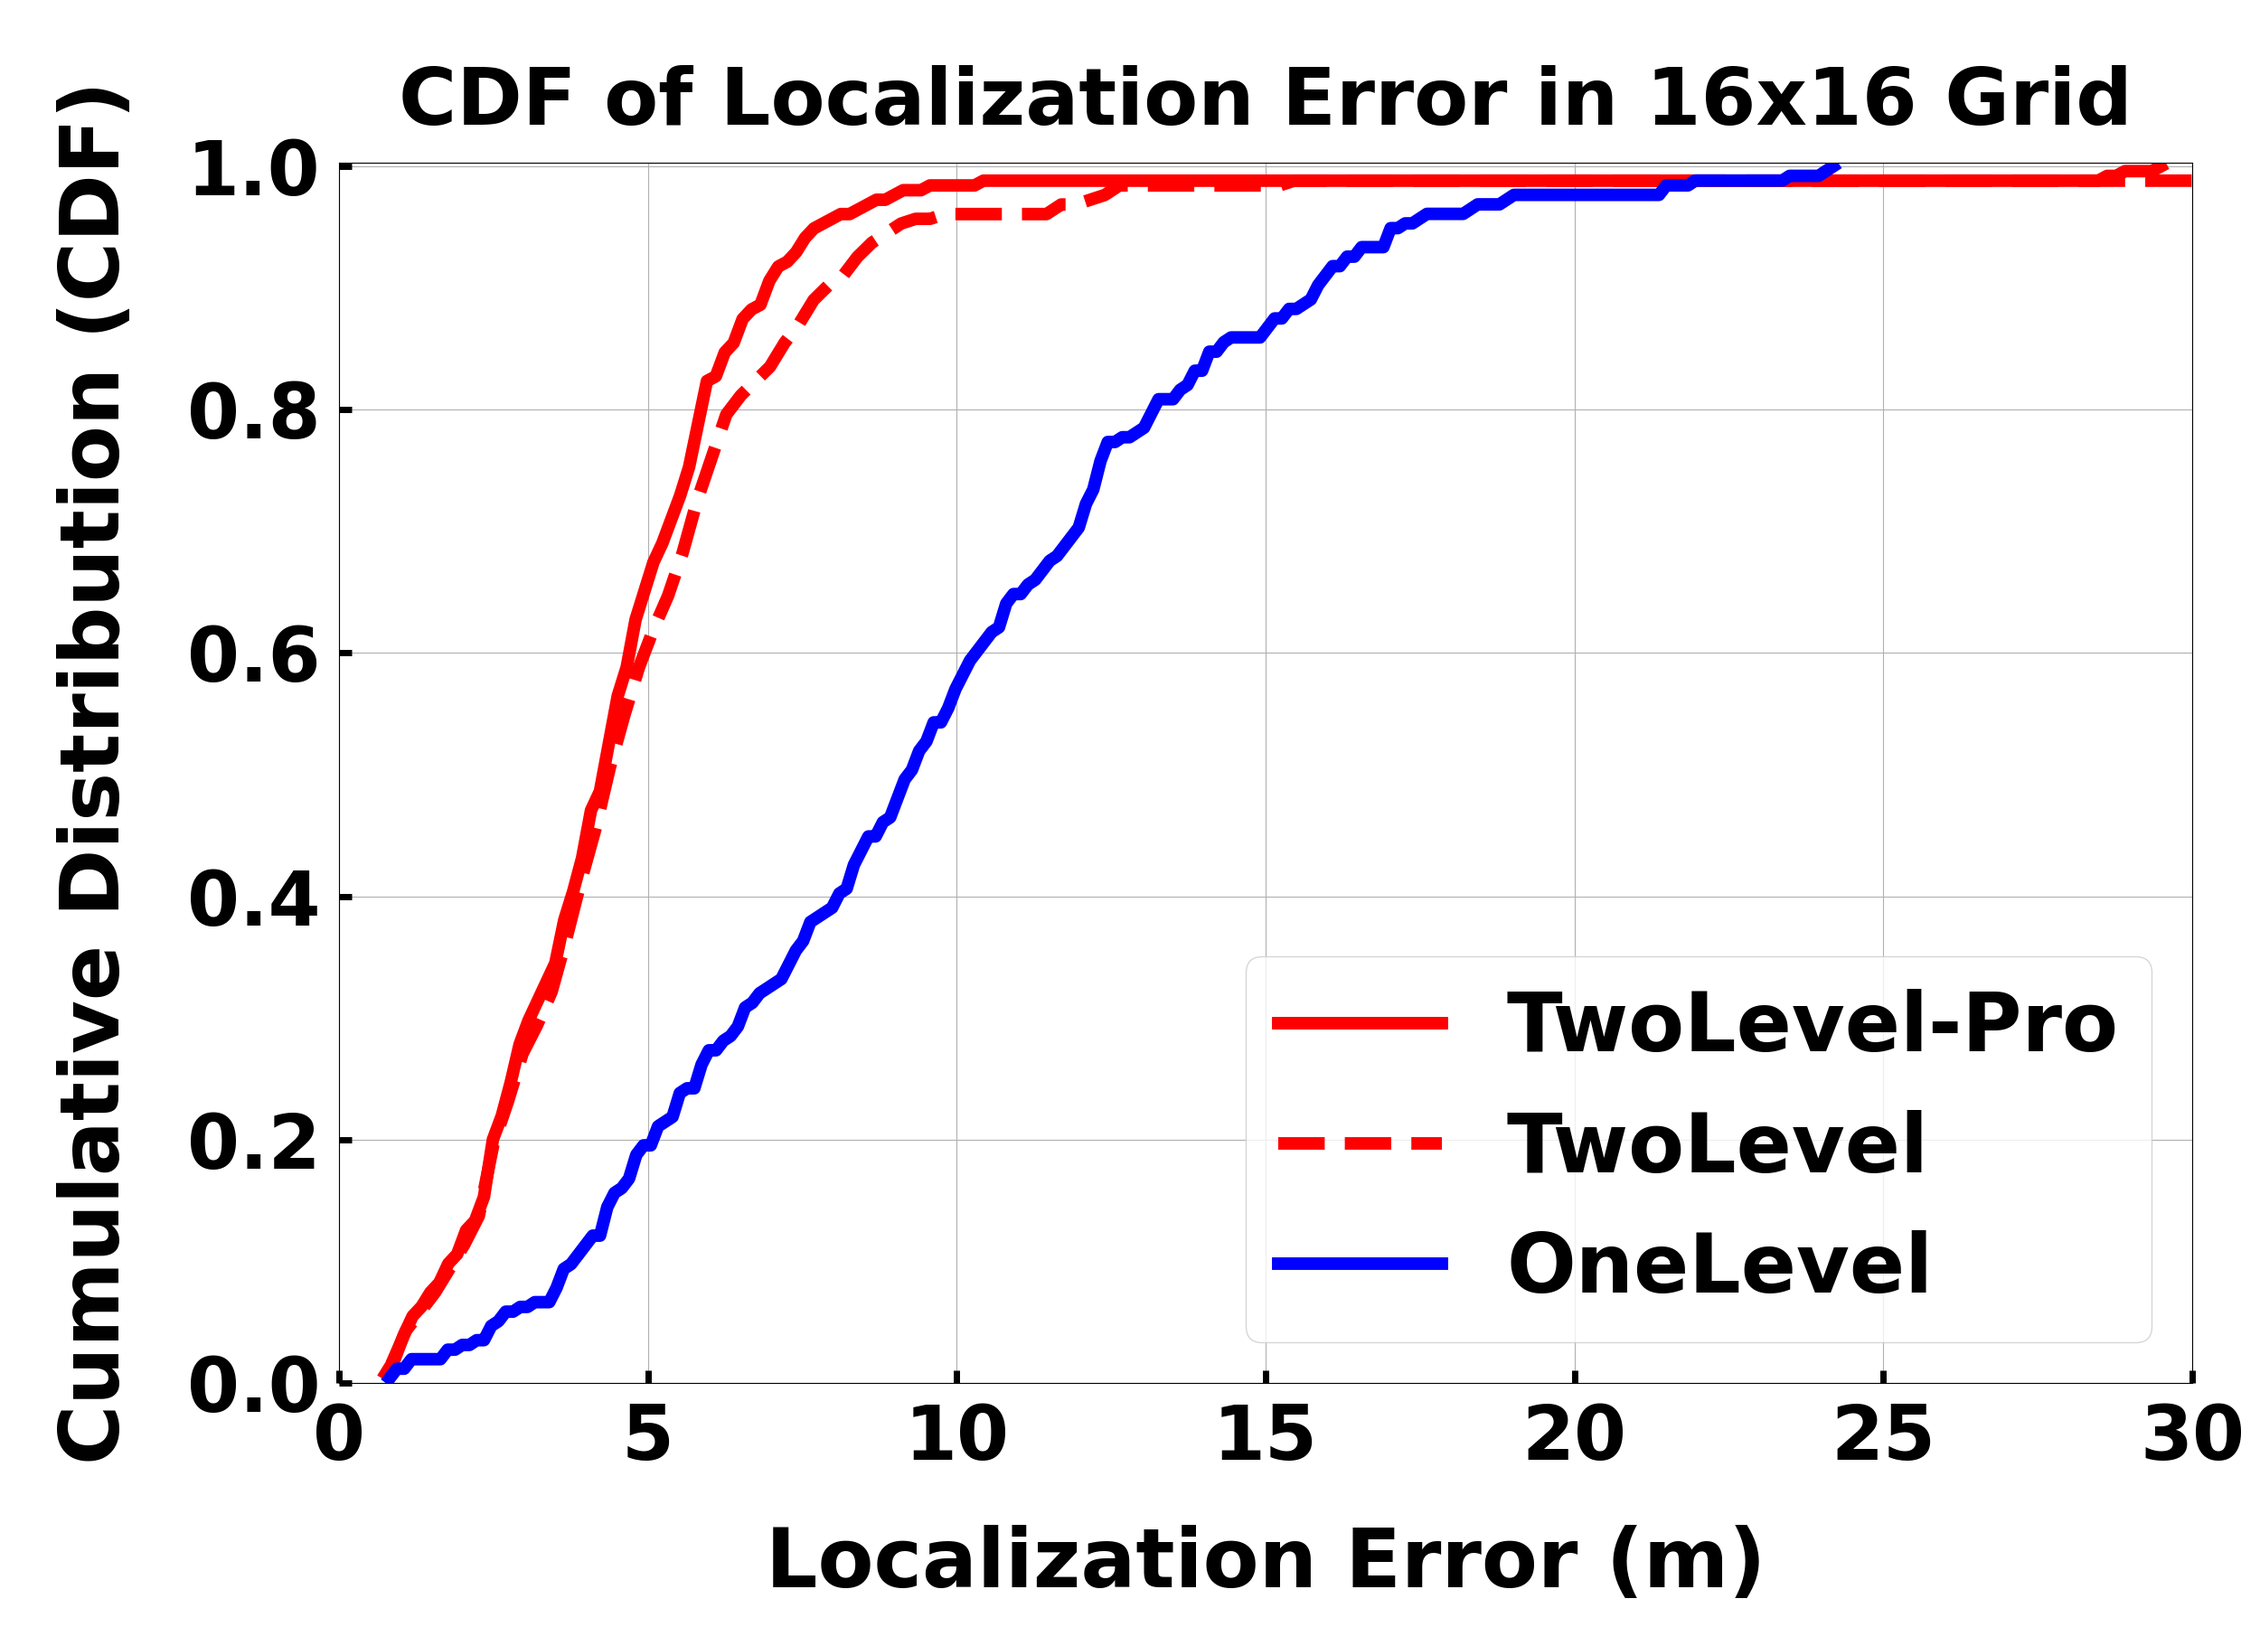
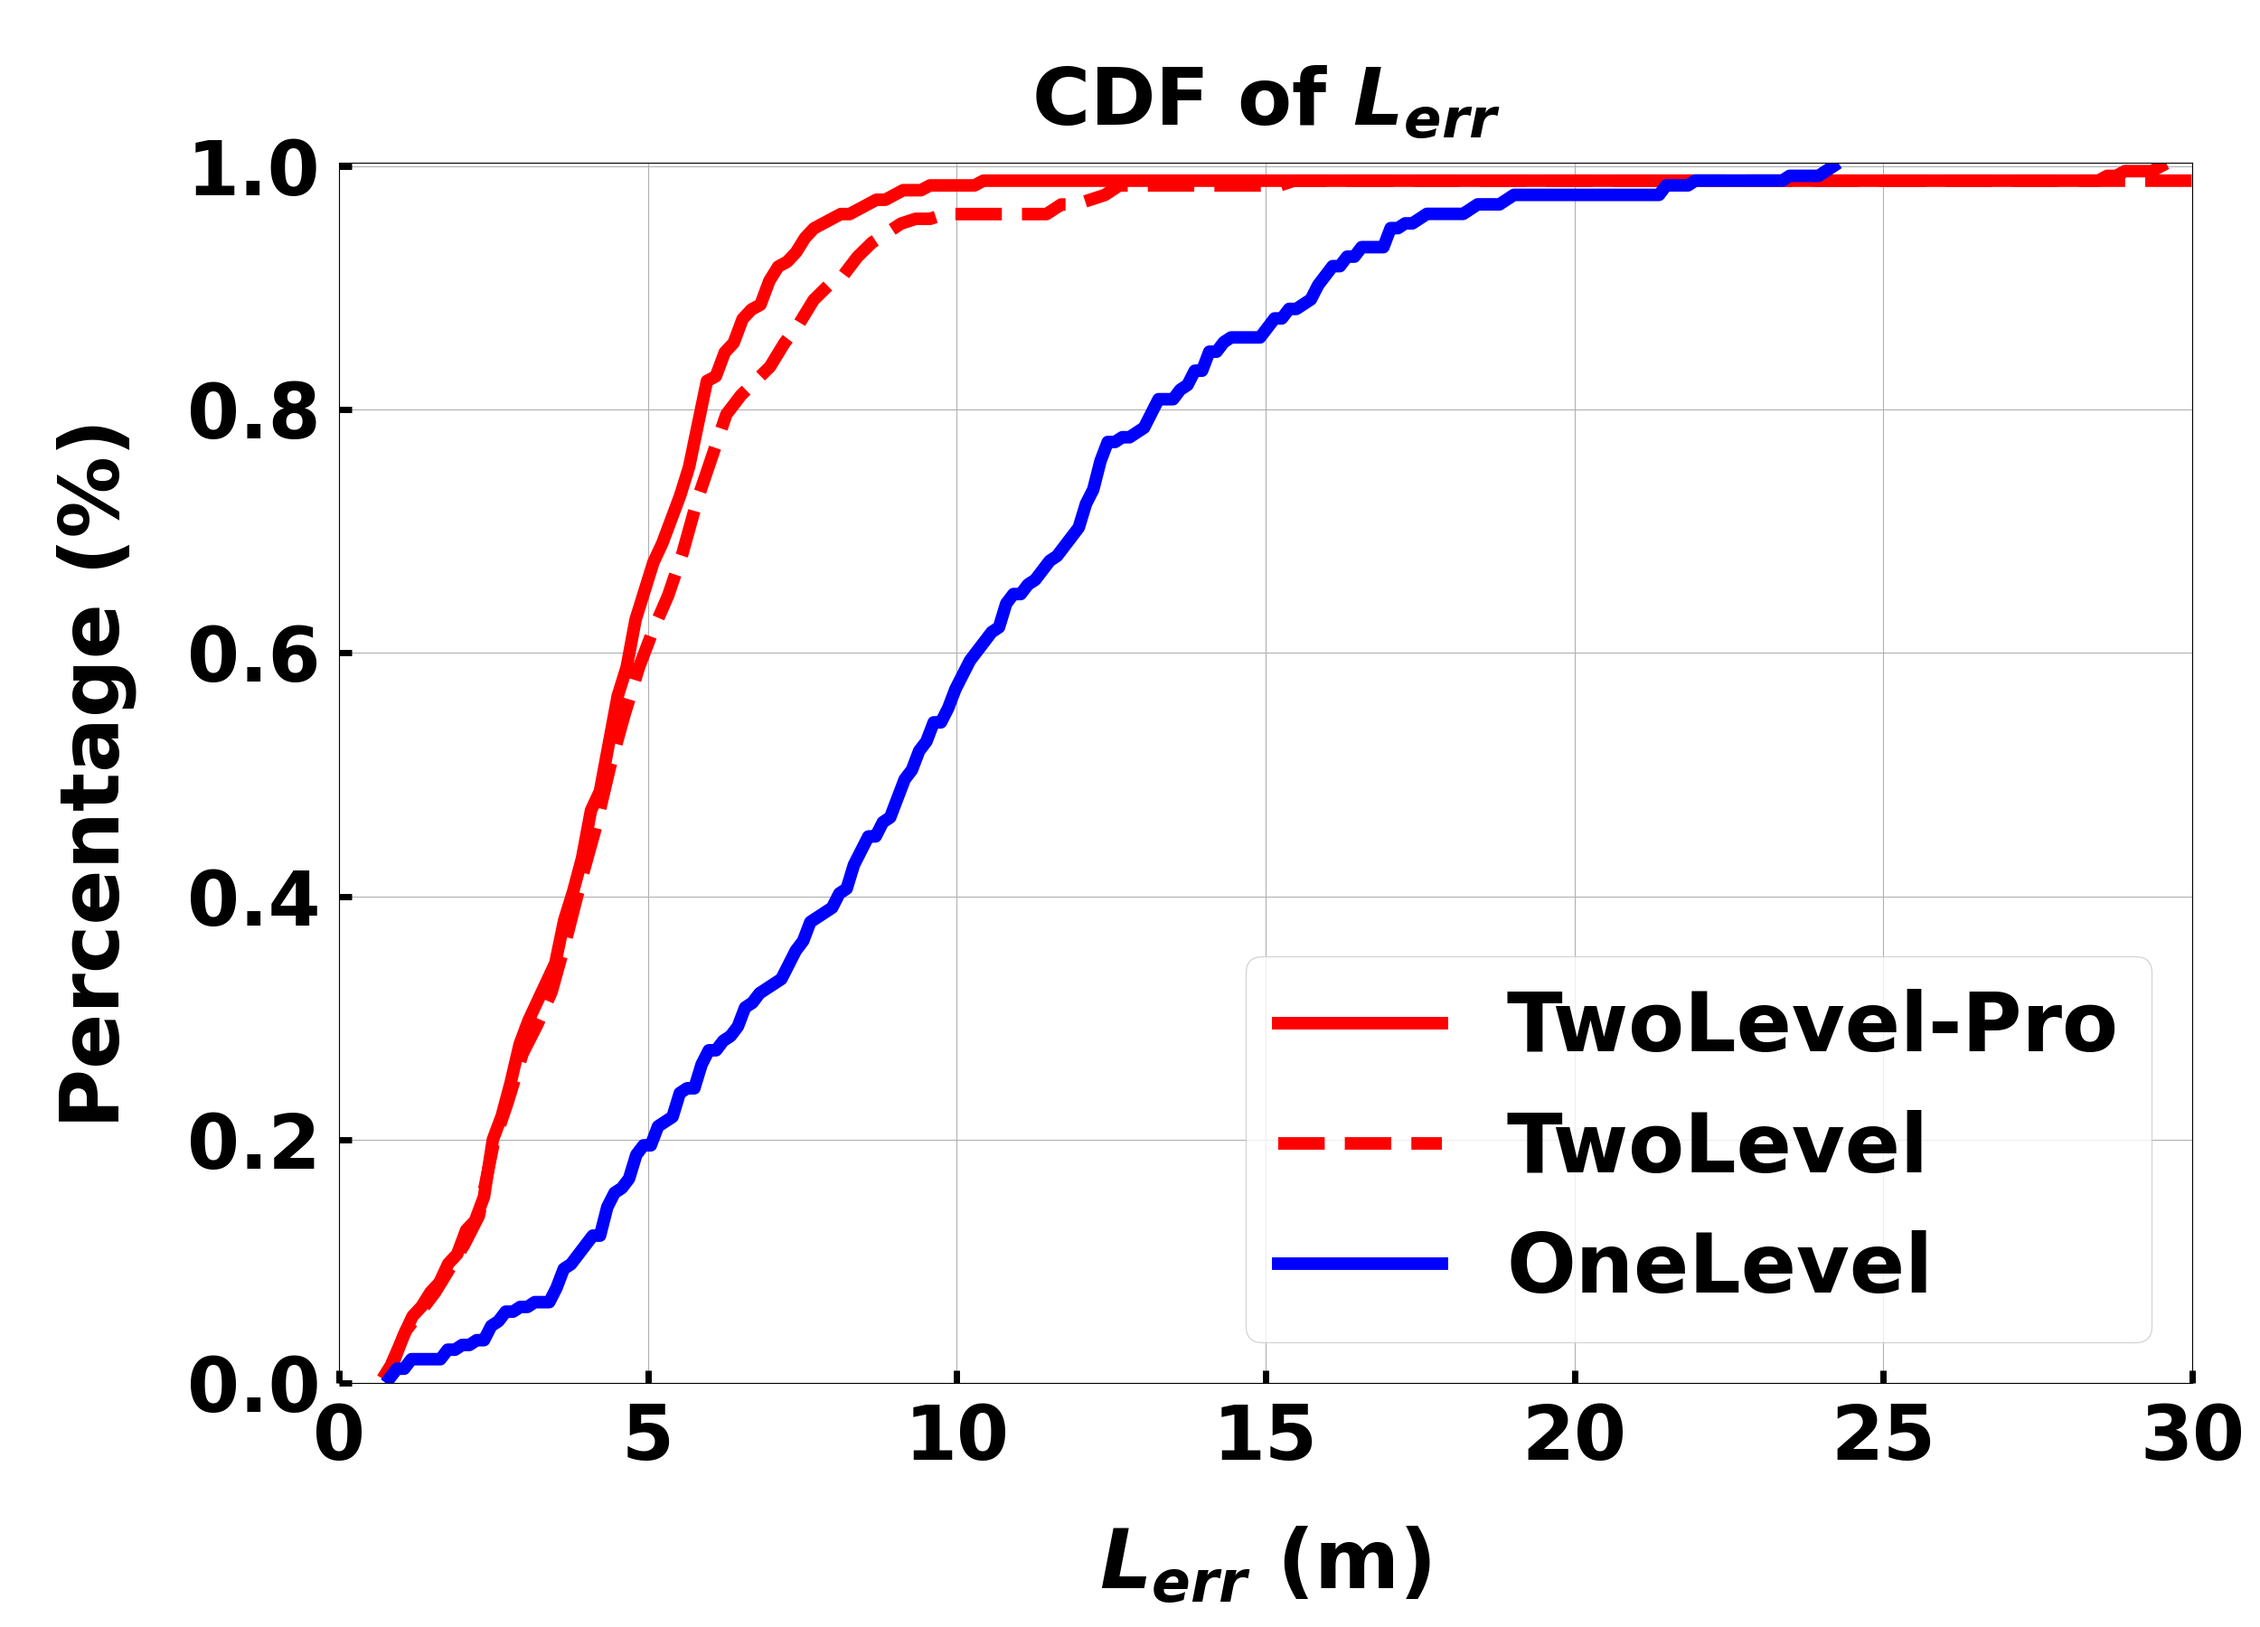
fix typo in plots

Changed region(s): [[0.156, 0.0311, 0.9672, 0.0933], [0.0, 0.0311, 0.0624, 0.9022], [0.3432, 0.9333, 0.78, 0.9956]]

diff --git a/plot.py b/plot.py
@@ -98,14 +98,16 @@ class Plot:
         y_8sen_error = arr[:, 2]
 
         # step 2: plotting
+        cc_acc = "$CC_{acc}$"
+        l_err  = "$L_{err}$"
         povmloc_one_color2 = 'black'
         fig, ax1 = plt.subplots(1, 1, figsize=(23, 22))
         fig.subplots_adjust(left=0.13, right=0.895, top=0.81, bottom=0.16)
         ax2 = ax1.twinx()
-        ax1.plot(X, y_8sen, linestyle='-',  marker='^', label="$CC_{acc}$ 8 Sensors", mfc='black', mec='b', color=povmloc_one_color2)
-        ax1.plot(X, y_4sen, linestyle='--', marker='^', label="$CC_{acc}$ 4 Sensors", mfc='black', mec='b', color=povmloc_one_color2)
-        ax2.plot(X, y_8sen_error, linestyle='-',  marker='o', label="$L_{acc}$ 8 Sensors", mfc='black', mec='b', color=Plot.COLOR['povmloc-one'])
-        ax2.plot(X, y_4sen_error, linestyle='--', marker='o', label="$L_{acc}$ 4 Sensors", mfc='black', mec='b', color=Plot.COLOR['povmloc-one'])
+        ax1.plot(X, y_8sen,       linestyle='-',  marker='^', label=f"{cc_acc} 8 Sensors", mfc='black',                   mec='b', color=povmloc_one_color2)
+        ax1.plot(X, y_4sen,       linestyle='--', marker='^', label=f"{cc_acc} 4 Sensors", mfc='black',                   mec='b', color=povmloc_one_color2)
+        ax2.plot(X, y_8sen_error, linestyle='-',  marker='o', label=f"{l_err} 8 Sensors",  mfc=Plot.COLOR['povmloc-one'], mec='b', color=Plot.COLOR['povmloc-one'])
+        ax2.plot(X, y_4sen_error, linestyle='--', marker='o', label=f"{l_err} 4 Sensors",  mfc=Plot.COLOR['povmloc-one'], mec='b', color=Plot.COLOR['povmloc-one'])
         # ax1
         fig.legend(ncol=2, loc='upper center', bbox_to_anchor=(0.5, 1), fontsize=52, handlelength=3.5)
         ax1.set_xlabel('Grid Size', labelpad=20)
@@ -114,13 +116,13 @@ class Plot:
         ax1.set_xticklabels([f'{int(x)}x{int(x)}' for x in X])
         ax1.tick_params(axis='x', pad=15, direction='in', length=10, width=5, labelsize=50, rotation=12)
         ax1.tick_params(axis='y', pad=15, direction='in', length=10, width=5, labelcolor=povmloc_one_color2)
-        ax1.set_ylabel('$CC_{acc}$ (%)', fontsize=55, color=povmloc_one_color2)
+        ax1.set_ylabel(f'{cc_acc} (%)', fontsize=55, color=povmloc_one_color2)
         ax1.set_ylim([0, 102])
         method = Plot.LEGEND['povmloc-one']
         ax1.set_title(f'Performance of {method}', pad=30, fontsize=60, fontweight='bold')
         # ax2
         ax2.tick_params(axis='y', pad=15, direction='in', length=10, width=5, labelcolor=Plot.COLOR['povmloc-one'])
-        ax2.set_ylabel('$L_{acc}$ (m)', labelpad=10, fontsize=55, color=Plot.COLOR['povmloc-one'])
+        ax2.set_ylabel(f'{l_err} (m)', labelpad=10, fontsize=55, color=Plot.COLOR['povmloc-one'])
         ax2.set_ylim([0, 20.4])
         ax2.set_yticks(range(0, 21, 4))
         plt.figtext(0.485, 0.01, '(a)')
@@ -169,24 +171,24 @@ class Plot:
         fig.subplots_adjust(left=0.13, right=0.88, top=0.81, bottom=0.16)
         ax2 = ax1.twinx()
         cc_acc = "$CC_{acc}$"
-        l_acc  = "$L_{acc}$"
+        l_err  = "$L_{err}$"
         ourpro_label = Plot.LEGEND['povmloc-pro']
         our_label    = Plot.LEGEND['povmloc']
-        ax1.plot(X, y_povmloc_pro,       linestyle=Plot.LINE['povmloc-pro'],  marker='^', label=f"{cc_acc} {ourpro_label}", mfc='black', mec='b', color=povmloc_one_color2)
-        ax1.plot(X, y_povmloc,           linestyle=Plot.LINE['povmloc'],      marker='^', label=f"{cc_acc} {our_label}",   mfc='black', mec='b', color=povmloc_one_color2)
-        ax2.plot(X, y_povmloc_pro_error, linestyle=Plot.LINE['povmloc-pro'],  marker='o', label=f"{l_acc} {ourpro_label}", mfc='black', mec='b', color=Plot.COLOR['povmloc-pro'])
-        ax2.plot(X, y_povmloc_error,     linestyle=Plot.LINE['povmloc'],      marker='o', label=f"{l_acc} {our_label}",   mfc='black', mec='b', color=Plot.COLOR['povmloc'])
+        ax1.plot(X, y_povmloc_pro,       linestyle=Plot.LINE['povmloc-pro'],  marker='^', label=f"{cc_acc} {ourpro_label}", mfc='black',                   mec='b', color=povmloc_one_color2)
+        ax1.plot(X, y_povmloc,           linestyle=Plot.LINE['povmloc'],      marker='^', label=f"{cc_acc} {our_label}",    mfc='black',                   mec='b', color=povmloc_one_color2)
+        ax2.plot(X, y_povmloc_pro_error, linestyle=Plot.LINE['povmloc-pro'],  marker='o', label=f"{l_err} {ourpro_label}",  mfc=Plot.COLOR['povmloc-pro'], mec='b', color=Plot.COLOR['povmloc-pro'])
+        ax2.plot(X, y_povmloc_error,     linestyle=Plot.LINE['povmloc'],      marker='o', label=f"{l_err} {our_label}",     mfc=Plot.COLOR['povmloc-pro'], mec='b', color=Plot.COLOR['povmloc'])
         fig.legend(ncol=2, loc='upper center', bbox_to_anchor=(0.5, 1), fontsize=52, handlelength=3.5)
         ax1.set_xlabel('Noise', labelpad=50)
         ax1.set_xticks(X)
         ax1.tick_params(axis='x', pad=15, direction='in', length=10, width=5, labelsize=60)
         ax1.tick_params(axis='y', pad=15, direction='in', length=10, width=5, labelsize=60)
-        ax1.set_ylabel('$CC_{acc}$ (%)', fontsize=55)
+        ax1.set_ylabel(f'{cc_acc} (%)', fontsize=55)
         ax1.set_ylim([90, 100.2])
         ax1.set_title(f'Performance of TwoLevel, TwoLevel-Pro', pad=30, fontsize=60, fontweight='bold')
         # ax2
         ax2.tick_params(axis='y', pad=15, direction='in', length=10, width=5, labelcolor=Plot.COLOR['povmloc'])
-        ax2.set_ylabel('$L_{acc}$ (m)', labelpad=10, fontsize=55, color=Plot.COLOR['povmloc'])
+        ax2.set_ylabel(f'{l_err} (m)', labelpad=10, fontsize=55, color=Plot.COLOR['povmloc'])
         ax2.set_ylim([0, 1.2])
         ax2.set_yticks(np.linspace(0, 1.2, 4))
         plt.figtext(0.475, 0.01, '(b)')
@@ -217,13 +219,13 @@ class Plot:
         
         ax.grid(True)
         ax.legend(loc='lower right')
-        ax.set_xlabel('Localization Error (m)', labelpad=40)
-        ax.set_ylabel('Cumulative Distribution (CDF)', labelpad=40)
+        ax.set_xlabel('$L_{err}$ (m)', labelpad=40)
+        ax.set_ylabel('Percentage (%)', labelpad=40)
         ax.set_ylim([0, 1.003])
         ax.set_xlim([0, 30])
         ax.tick_params(axis='x', pad=15, direction='in', length=10, width=5, labelsize=60)
         ax.tick_params(axis='y', pad=15, direction='in', length=10, width=5, labelsize=60)
-        ax.set_title('CDF of Localization Error in 16x16 Grid', pad=30, fontsize=63, fontweight='bold')
+        ax.set_title('CDF of $L_{err}$', pad=30, fontsize=63, fontweight='bold')
         fig.savefig(figname)
         
 
